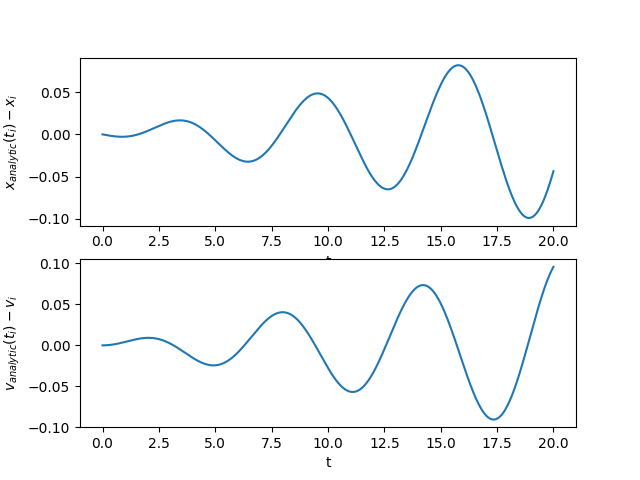
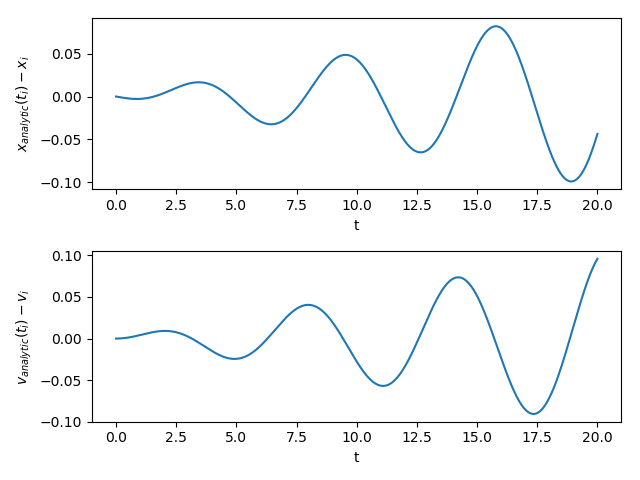
Continuing assignment 3

diff --git a/PS3/euler.py b/PS3/euler.py
@@ -1,6 +1,8 @@
 import numpy as np
 import matplotlib.pyplot as plt
+from matplotlib import rcParams
 
+rcParams.update({'figure.autolayout': True})
 
 def euler_plot(x_0, v_0, h, t):
     N = int(t/h)
@@ -65,3 +67,47 @@ def euler_err(h, t):
     plt.plot(t_arr, v_err)
     plt.savefig('x_err_and_v_err_plot_%(a)s_%(b)s_%(c)s_%(d)s.png' % {"a": 1, "b": 0, "c": h, "d": t})
     plt.close()
+
+
+def max_x_err(h):
+    """Maximum x error when solving up to t=20"""
+    t = 20
+    N = int(t/h)
+    x_arr = np.zeros(N + 1)
+    v_arr = np.zeros(N + 1)
+    t_arr = np.arange(N + 1, dtype=float)
+
+    t_arr *= float(h)
+
+    x_arr[0] = 1
+    v_arr[0] = 0
+
+    for i in range(len(t_arr) - 1):
+        x_arr[i + 1] = float(x_arr[i]) + float(h)*float(v_arr[i])
+        v_arr[i + 1] = float(v_arr[i]) - float(h)*float(x_arr[i])
+
+    x_err = np.zeros(N + 1)
+
+    for i in range(len(t_arr)):
+        x_err[i] = np.cos(t_arr[i]) - x_arr[i]
+   
+    return np.amax(x_err)
+
+
+def err_behavior(h0, k):
+    "Plotting max x error for h0/2^j; j = 0,1,2,...,k when solving up to t=20"""
+    err_array = np.zeros(k+1)
+    h_array = np.zeros(k+1)
+
+    for i in range(k):
+        err_array[i] = max_x_err(float(h0/(2**i)))
+        h_array[i] = float(h0/(2**i))
+
+    plt.xlabel('h')
+    plt.ylabel('$max[x_{analytic}(t_i) - x_i]$')
+    plt.plot(h_array, err_array)
+    plt.savefig('err_behavior_%(a)s_%(b)s_%(c)s.png' % {"a": h0, "b": k, "c": 20})
+    plt.close()
+
+err_behavior(0.01, 4)
+
